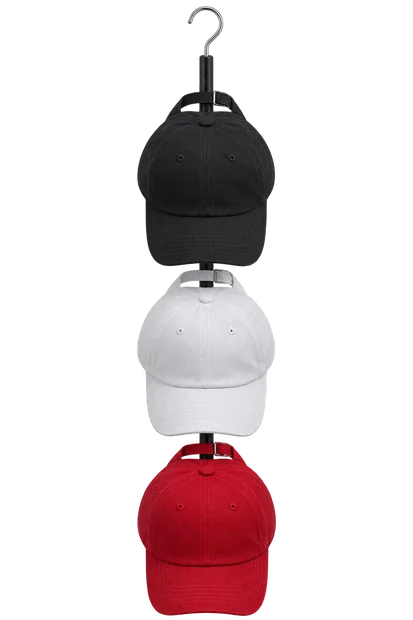
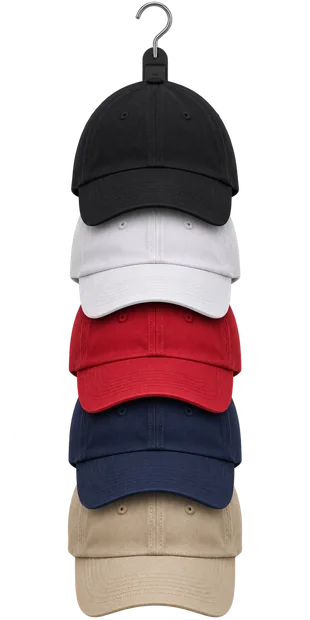
Развернуть одежду влево и оживить вешалки с помощью GSAP

diff --git a/src/scripts/clothing-rail.ts b/src/scripts/clothing-rail.ts
@@ -1,0 +1,106 @@
+import { gsap } from 'gsap';
+
+export function initClothingRail(rail: HTMLElement) {
+  const trigger = rail.querySelector<HTMLButtonElement>('.unfold')!;
+  const items = [...rail.querySelectorAll<HTMLElement>('.pieces li')];
+  const hangers = items.map(item => item.querySelector<HTMLElement>('.hanger')!);
+  const motion = matchMedia('(prefers-reduced-motion: reduce)');
+  let open = false;
+  let reveal: gsap.core.Timeline;
+
+  // The links keep their final widths, including on a scrollable phone rail.
+  // Only move the hangers: both views pivot around the same fixed hook.
+  function measure() {
+    const width = rail.clientWidth;
+    const progress = reveal?.progress() ?? 0;
+    reveal?.kill();
+    const offsets = items.map((item, index) => {
+      const center = width * (.61 + .36 * (index + .5) / items.length);
+      return center - item.offsetLeft - item.offsetWidth / 2;
+    });
+    const timing = { duration: .52, stagger: .018, ease: 'power2.inOut' };
+    reveal = gsap.timeline({ paused: true })
+      .fromTo(items, { x: i => offsets[i] }, { ...timing, x: 0 }, 0)
+      .fromTo(rail.querySelector('.intro'), { opacity: 1 }, { opacity: 0, duration: .18 }, 0)
+      .fromTo(rail.querySelectorAll('.side'), { opacity: 1, rotationY: 0 },
+        { ...timing, opacity: 0, rotationY: 38 }, 0)
+      .fromTo(rail.querySelectorAll('.front'), { opacity: 0, rotationY: -56 },
+        { ...timing, opacity: 1, rotationY: 0 }, 0)
+      .fromTo(rail.querySelectorAll('.piece span'), { opacity: 0 }, { opacity: 1, duration: .2 }, .28);
+    reveal.progress(progress);
+    settle();
+  }
+  function settle() {
+    if (motion.matches) {
+      reveal.pause().progress(open ? 1 : 0);
+      gsap.killTweensOf(hangers);
+      gsap.set(hangers, { rotation: 0 });
+    } else if (open) reveal.play();
+    else reveal.reverse();
+  }
+  function setOpen(next: boolean) {
+    if (open === next) return;
+    open = next;
+    rail.toggleAttribute('data-open', next);
+    settle();
+  }
+  measure();
+  rail.dataset.interactive = '';
+  new ResizeObserver(measure).observe(rail);
+  motion.addEventListener('change', settle);
+
+  rail.addEventListener('pointerover', event => {
+    if (event.pointerType === 'mouse' && (event.target as Element).closest('.piece, .unfold')) setOpen(true);
+  });
+  rail.addEventListener('pointerleave', event => {
+    lastX = null;
+    if (event.pointerType === 'mouse' && !rail.scrollLeft && !rail.querySelector(':focus-visible')) setOpen(false);
+  });
+  trigger.addEventListener('click', () => {
+    setOpen(true);
+    rail.querySelector<HTMLAnchorElement>('.piece')?.focus({ preventScroll: true });
+  });
+  rail.addEventListener('focusin', event => {
+    if ((event.target as Element).closest('.piece')) setOpen(true);
+  });
+  rail.addEventListener('focusout', event => {
+    if (!rail.contains(event.relatedTarget as Node) && !rail.matches(':hover') && !rail.scrollLeft) setOpen(false);
+  });
+  document.addEventListener('pointerdown', event => {
+    if (!rail.contains(event.target as Node) && !rail.scrollLeft) setOpen(false);
+  });
+
+  // A new brush interrupts the old swing at its current angle.
+  // A rightward brush needs negative rotation for the hem to move right.
+  let lastX: number | null = null;
+  let lastHanger: HTMLElement | undefined;
+  let lastDirection = 0;
+  function brush(x: number, y: number) {
+    const delta = lastX === null ? 0 : x - lastX;
+    lastX = x;
+    if (!open || motion.matches || Math.abs(delta) < 1) return;
+    const link = document.elementFromPoint(x, y)?.closest('.piece');
+    const hanger = link?.querySelector<HTMLElement>('.hanger');
+    const direction = Math.sign(delta);
+    if (hanger && (hanger !== lastHanger || direction !== lastDirection)) {
+      const tilt = -direction * Math.min(5, 2 + Math.abs(delta) * .1);
+      gsap.killTweensOf(hanger);
+      gsap.timeline().to(hanger, { rotation: tilt, duration: .14, ease: 'power2.out' })
+        .to(hanger, { rotation: 0, duration: .7, ease: 'elastic.out(1,.55)' });
+    }
+    lastHanger = hanger ?? undefined;
+    lastDirection = direction;
+  }
+  rail.addEventListener('pointermove', event => {
+    if (event.pointerType !== 'touch') brush(event.clientX, event.clientY);
+  });
+  rail.addEventListener('touchstart', event => {
+    lastX = event.touches[0].clientX;
+    lastHanger = undefined;
+  }, { passive: true });
+  rail.addEventListener('touchmove', event => {
+    const touch = event.touches[0];
+    if (!open && event.target === trigger && lastX !== null && Math.abs(touch.clientX - lastX) > 3) setOpen(true);
+    brush(touch.clientX, touch.clientY);
+  }, { passive: true });
+}
